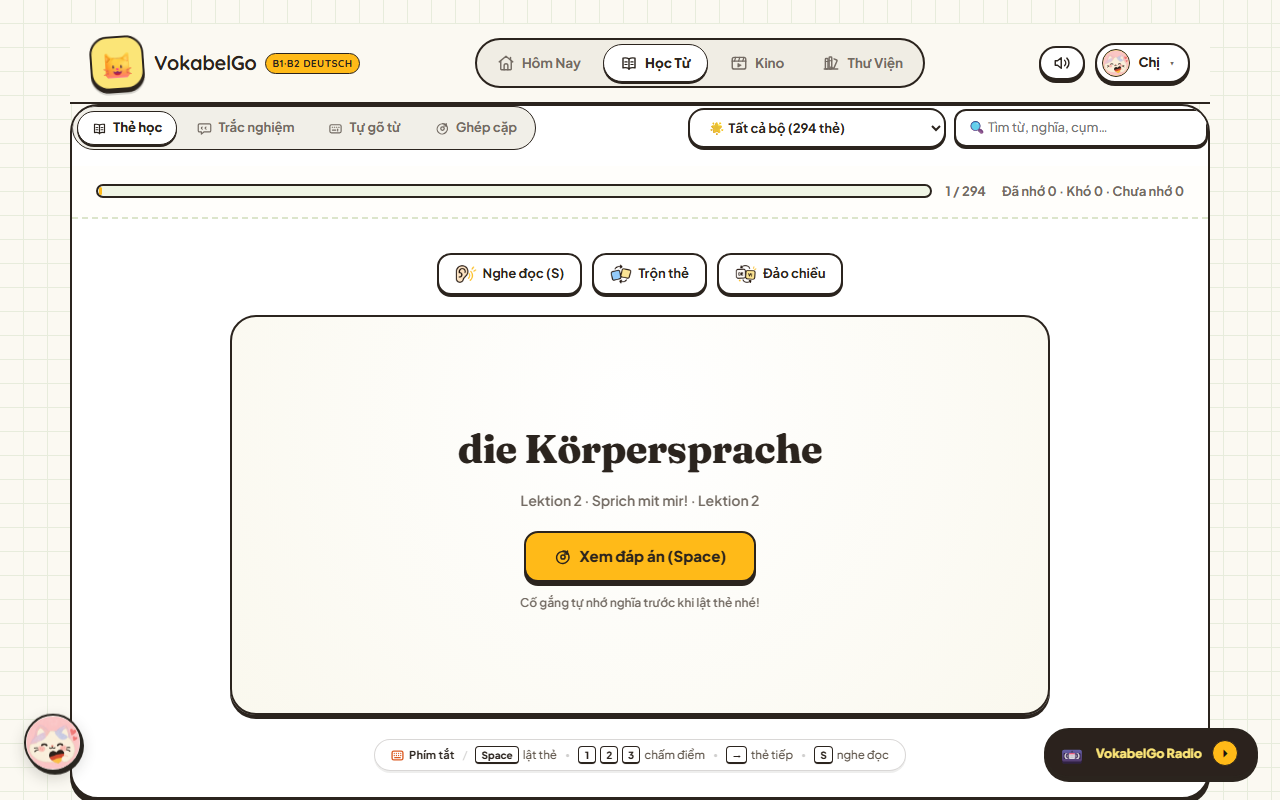
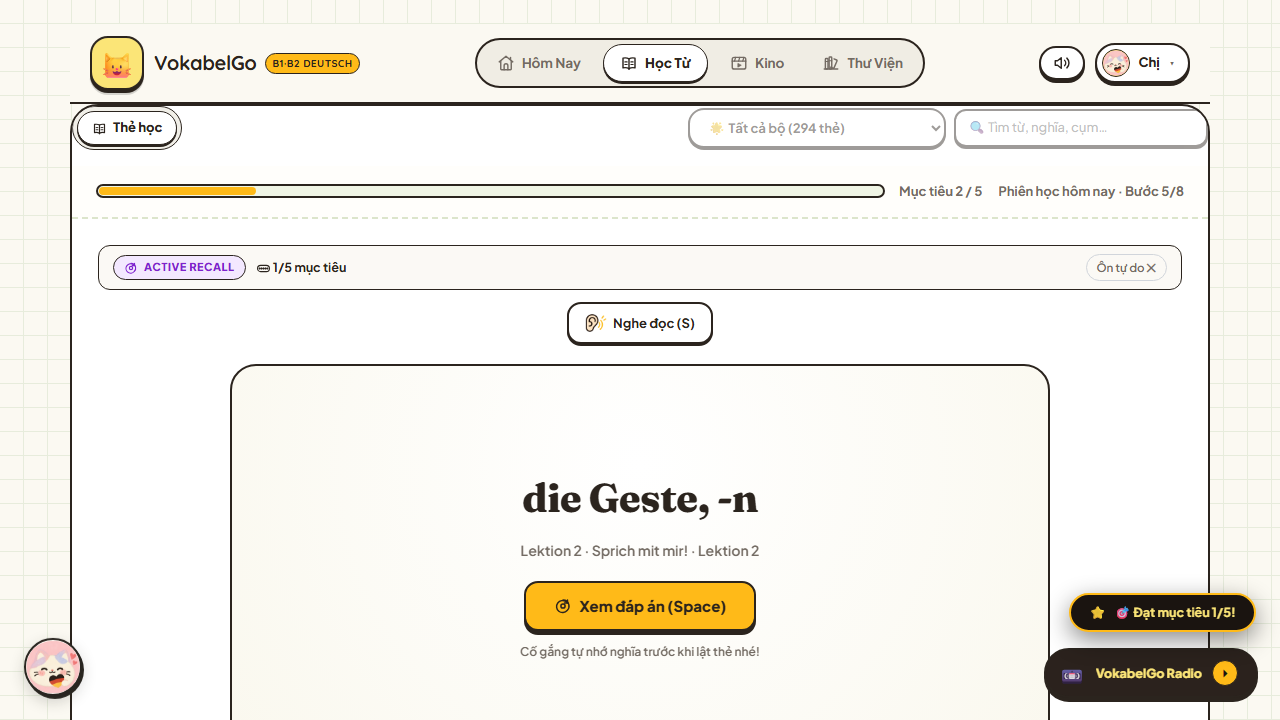
fix(ui): correct learning callout semantics

diff --git a/index.html b/index.html
@@ -7831,17 +7831,17 @@ input.search:focus {
                   </div>
                   <div class="callout-content example" id="example"></div>
                 </div>
-                <div class="block learning-callout callout-memory-tip" id="collocBlock">
+                <div class="block learning-callout callout-collocation callout-memory-tip" id="collocBlock">
                   <div class="callout-header">
                     <svg class="v-icon icon-xs" aria-hidden="true"><use href="#icon-memory-tip"></use></svg>
-                    <h4 class="callout-title">Mẹo nhớ</h4>
+                    <h4 class="callout-title" id="collocTitleText">Cụm thường dùng</h4>
                   </div>
                   <div class="callout-content tags" id="collocations"></div>
                 </div>
-                <div class="block learning-callout callout-confusion" id="noteBlock">
+                <div class="block learning-callout callout-note" id="noteBlock">
                   <div class="callout-header">
-                    <svg class="v-icon icon-xs" aria-hidden="true"><use href="#icon-easy-to-confuse"></use></svg>
-                    <h4 class="callout-title">Dễ nhầm</h4>
+                    <svg class="v-icon icon-xs" aria-hidden="true"><use id="noteIconUse" href="#icon-memory-tip"></use></svg>
+                    <h4 class="callout-title" id="noteTitleText">Ghi chú</h4>
                   </div>
                   <div id="note" class="callout-content body-text"></div>
                 </div>
@@ -14172,6 +14172,50 @@ function renderMiniLearningDiagram(c) {
   container.appendChild(diagramEl);
 }
 
+function classifyCardNote(note) {
+  if (!note || typeof note !== 'string') return null;
+  const raw = note.trim();
+  if (!raw) return null;
+  const lower = raw.toLowerCase();
+  const confusionMarkers = ['≠', 'phân biệt', 'dễ nhầm', 'khác với', 'đừng nhầm', 'so với', 'vs.'];
+  const hasConfusion = confusionMarkers.some(marker => marker === '≠' ? raw.includes('≠') : lower.includes(marker));
+  if (hasConfusion) {
+    return { type: 'confusion', label: 'Dễ nhầm', calloutClass: 'callout-confusion', iconId: 'icon-easy-to-confuse' };
+  }
+  if (lower.includes('mở rộng')) {
+    return { type: 'extension', label: 'Mở rộng', calloutClass: 'callout-note', iconId: 'icon-memory-tip' };
+  }
+  return { type: 'note', label: 'Ghi chú', calloutClass: 'callout-note', iconId: 'icon-memory-tip' };
+}
+if (typeof window !== 'undefined') {
+  window.classifyCardNote = classifyCardNote;
+}
+
+function renderNoteCallout(noteText) {
+  const noteBlock = document.getElementById('noteBlock');
+  const noteEl = document.getElementById('note');
+  const noteTitleEl = document.getElementById('noteTitleText');
+  const noteIconUse = document.getElementById('noteIconUse');
+  if (!noteText) {
+    if (noteEl) noteEl.textContent = '';
+    if (noteBlock) noteBlock.classList.add('hidden');
+    return;
+  }
+  const info = classifyCardNote(noteText) || { type: 'note', label: 'Ghi chú', calloutClass: 'callout-note', iconId: 'icon-memory-tip' };
+  if (noteEl) noteEl.textContent = noteText;
+  if (noteTitleEl) noteTitleEl.textContent = info.label;
+  if (noteBlock) {
+    noteBlock.className = `block learning-callout ${info.calloutClass}`;
+    noteBlock.classList.remove('hidden');
+  }
+  if (noteIconUse) {
+    noteIconUse.setAttribute('href', `#${info.iconId}`);
+    if (noteIconUse.setAttributeNS) {
+      noteIconUse.setAttributeNS('http://www.w3.org/1999/xlink', 'xlink:href', `#${info.iconId}`);
+    }
+  }
+}
+
 function render(){
   if (window.isStudySessionMode) return;
   const scBox = document.getElementById('sessionCompleteBox');
@@ -14218,8 +14262,7 @@ function render(){
   }
   document.getElementById('example').textContent=c.example||'';
   document.getElementById('exampleBlock').classList.toggle('hidden',!c.example);
-  document.getElementById('note').textContent=c.note||'';
-  document.getElementById('noteBlock').classList.toggle('hidden',!c.note);
+  renderNoteCallout(c.note);
 
   const tags=document.getElementById('cardTags'); tags.innerHTML='';
   [c.deck,...(c.tags||[])].filter(Boolean).forEach(x=>{const s=document.createElement('span');s.className='tag';s.textContent=x;tags.appendChild(s)});
@@ -14676,10 +14719,7 @@ function renderSessionInteraction() {
   const exampleBlock = document.getElementById('exampleBlock');
   if (exampleBlock) exampleBlock.classList.toggle('hidden', !c.example);
 
-  const note = document.getElementById('note');
-  if (note) note.textContent = c.note || '';
-  const noteBlock = document.getElementById('noteBlock');
-  if (noteBlock) noteBlock.classList.toggle('hidden', !c.note);
+  renderNoteCallout(c.note);
 
   const tags = document.getElementById('cardTags');
   if (tags) {

diff --git a/test-pedagogical-ux-acceptance.js b/test-pedagogical-ux-acceptance.js
@@ -174,6 +174,70 @@ it('learning-ux.css includes mobile responsive breakpoints (<= 768px)', () => {
 });
 
 // ------------------------------------------------------------------------------
+// TEST SUITE 7: SEMANTIC CALLOUT CLEANUP (ROUND 2.1 ACCEPTANCE)
+// ------------------------------------------------------------------------------
+console.log('\n--- TEST GROUP 7: Semantic Callout Classification & Styling (Round 2.1) ---');
+
+const classifyCardNoteMatch = indexHtml.match(/function classifyCardNote\([\s\S]*?\n\}/);
+const classifyCardNote = classifyCardNoteMatch ? new Function(`${classifyCardNoteMatch[0]}; return classifyCardNote;`)() : null;
+
+it('Deterministic note classification exists and is exported in index.html', () => {
+  assert.ok(classifyCardNote, 'classifyCardNote function must exist in index.html');
+  assert.ok(indexHtml.includes('window.classifyCardNote = classifyCardNote'), 'classifyCardNote must be attached to window');
+});
+
+it('Test A: Note with "≠" is classified as Dễ nhầm (callout-confusion, icon-easy-to-confuse)', () => {
+  const res = classifyCardNote('≠ die Gestik: cách sử dụng cử chỉ nói chung.');
+  assert.strictEqual(res.type, 'confusion');
+  assert.strictEqual(res.label, 'Dễ nhầm');
+  assert.strictEqual(res.calloutClass, 'callout-confusion');
+  assert.strictEqual(res.iconId, 'icon-easy-to-confuse');
+});
+
+it('Test B: Note with confusion markers (phân biệt, dễ nhầm, khác với, đừng nhầm, so với, vs.) is classified as Dễ nhầm', () => {
+  const res1 = classifyCardNote('Phân biệt với từ khác khi dùng trong văn cảnh trang trọng.');
+  assert.strictEqual(res1.type, 'confusion');
+  assert.strictEqual(res1.label, 'Dễ nhầm');
+  assert.strictEqual(res1.calloutClass, 'callout-confusion');
+  assert.strictEqual(res1.iconId, 'icon-easy-to-confuse');
+
+  const res2 = classifyCardNote('Đừng nhầm với cấu trúc bị động.');
+  assert.strictEqual(res2.type, 'confusion');
+  assert.strictEqual(res2.label, 'Dễ nhầm');
+});
+
+it('Test C: Note with "mở rộng" is classified as Mở rộng (callout-note, icon-memory-tip)', () => {
+  const res = classifyCardNote('Mở rộng: die Stirn runzeln; die Augenbrauen heben.');
+  assert.strictEqual(res.type, 'extension');
+  assert.strictEqual(res.label, 'Mở rộng');
+  assert.strictEqual(res.calloutClass, 'callout-note');
+  assert.strictEqual(res.iconId, 'icon-memory-tip');
+});
+
+it('Test D: Standard notes are classified as neutral Ghi chú (callout-note, icon-memory-tip)', () => {
+  const res = classifyCardNote('wirken auf + Akk. giúp diễn đạt đây là ấn tượng của người nói.');
+  assert.strictEqual(res.type, 'note');
+  assert.strictEqual(res.label, 'Ghi chú');
+  assert.strictEqual(res.calloutClass, 'callout-note');
+  assert.strictEqual(res.iconId, 'icon-memory-tip');
+});
+
+it('Test E: Collocations block is titled "Cụm thường dùng" and NOT "Mẹo nhớ"', () => {
+  const collocMatch = indexHtml.match(/<div[^>]*id="collocBlock"[^>]*>([\s\S]*?)<\/div>\s*<\/div>/);
+  assert.ok(collocMatch, 'collocBlock must exist in index.html');
+  assert.ok(collocMatch[1].includes('Cụm thường dùng'), 'collocBlock header must be "Cụm thường dùng"');
+  assert.ok(!collocMatch[1].includes('Mẹo nhớ'), 'collocBlock header must NOT be "Mẹo nhớ"');
+});
+
+it('Test F: learning-ux.css defines neutral soft paper style for .callout-note', () => {
+  assert.ok(learningCss.includes('.learning-callout.callout-note'), 'CSS must define .learning-callout.callout-note');
+  assert.ok(learningCss.includes('#FAF7EE'), 'callout-note background must be #FAF7EE');
+  assert.ok(learningCss.includes('#E2DDD2'), 'callout-note border must be #E2DDD2');
+  assert.ok(learningCss.includes('#5C5248'), 'callout-note header color must be #5C5248');
+  assert.ok(learningCss.includes('#38312A'), 'callout-note content color must be #38312A');
+});
+
+// ------------------------------------------------------------------------------
 // SUMMARY
 // ------------------------------------------------------------------------------
 console.log('\n========================================');

diff --git a/learning-ux.css b/learning-ux.css
@@ -1020,14 +1020,17 @@
   line-height: 1.5;
 }
 
-/* 1. Mẹo nhớ (Memory Tip) - Soft butter / warm yellow */
+/* 1. Cụm thường dùng (Collocation) / Mẹo nhớ (Memory Tip) - Soft butter / warm yellow */
+.learning-callout.callout-collocation,
 .learning-callout.callout-memory-tip {
   background: #FFFDF0;
   border-color: #FDE68A;
 }
+.learning-callout.callout-collocation .callout-header,
 .learning-callout.callout-memory-tip .callout-header {
   color: #92400E;
 }
+.learning-callout.callout-collocation .callout-content,
 .learning-callout.callout-memory-tip .callout-content {
   color: #78350F;
 }
@@ -1074,6 +1077,18 @@
   margin: 0 !important;
   color: inherit !important;
   font-style: italic;
+}
+
+/* 5. Ghi chú / Mở rộng (Note / Extension) - Soft cream / paper tone */
+.learning-callout.callout-note {
+  background: #FAF7EE;
+  border-color: #E2DDD2;
+}
+.learning-callout.callout-note .callout-header {
+  color: #5C5248;
+}
+.learning-callout.callout-note .callout-content {
+  color: #38312A;
 }
 
 /* ==============================================================================
